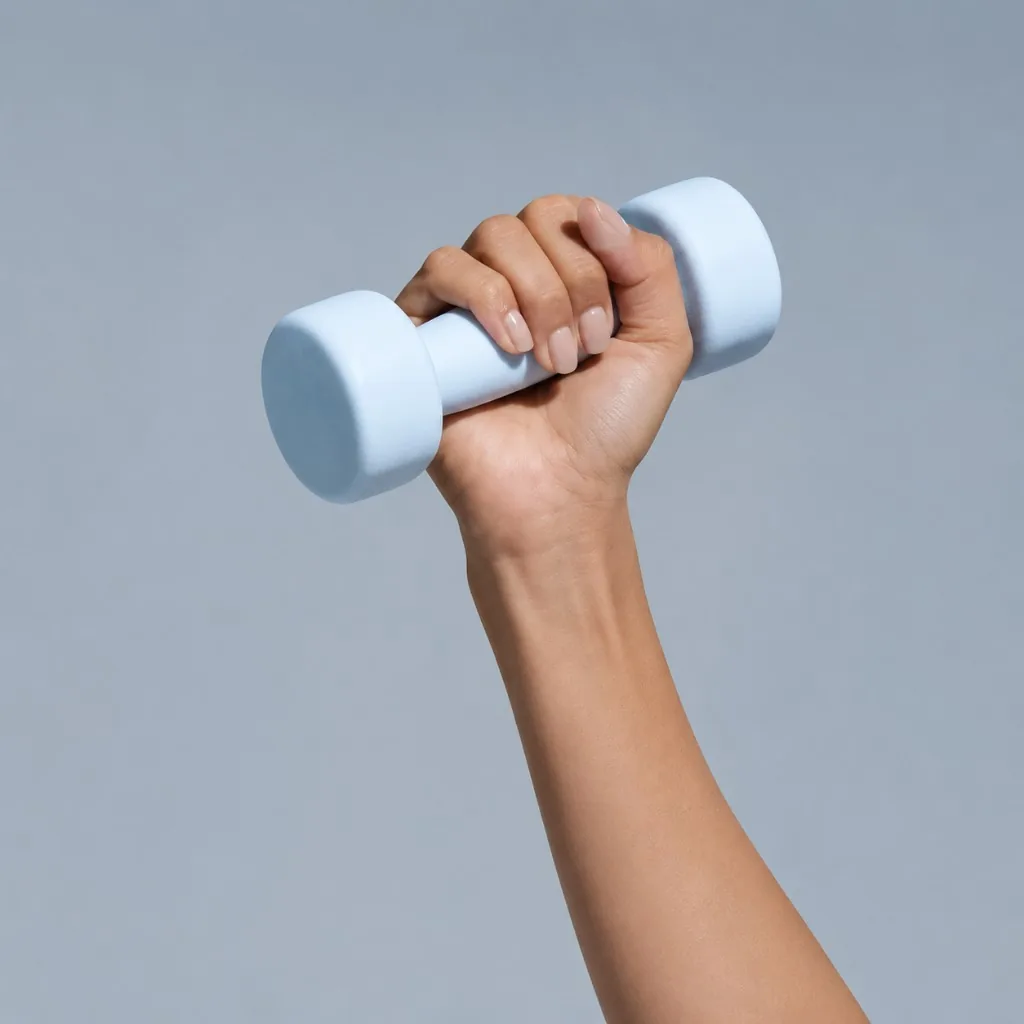
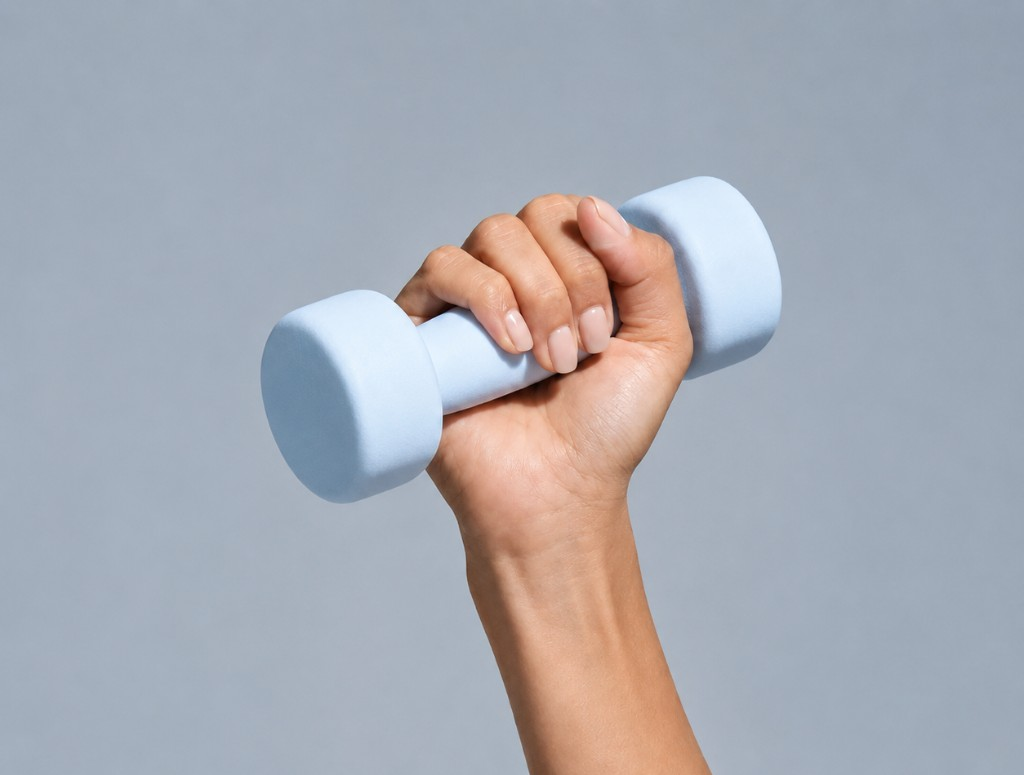
feat: optimize image handling and update CSS for marketing section
- Enabled unoptimized image serving in the Next.js configuration to improve asset loading.
- Updated the object positioning for the imageStrength class in the marketing story section for better alignment.
- Replaced the story-values-strength.webp image to enhance visual quality.

Changed region(s): [[0.25, 0.1548, 0.875, 1.0]]

diff --git a/apps/web/next.config.ts b/apps/web/next.config.ts
@@ -80,6 +80,8 @@ const nextConfig: NextConfig = {
   },
   allowedDevOrigins,
   images: {
+    /** Serve assets as-is — no `/_next/image` re-encode or resize. */
+    unoptimized: true,
     remotePatterns: [
       {
         protocol: "https",

diff --git a/apps/web/src/components/marketing/story/marketing-story-values-section.module.css b/apps/web/src/components/marketing/story/marketing-story-values-section.module.css
@@ -172,7 +172,7 @@
 }
 
 .imageStrength {
-  object-position: center 28%;
+  object-position: center center;
 }
 
 .imageCommunity {
